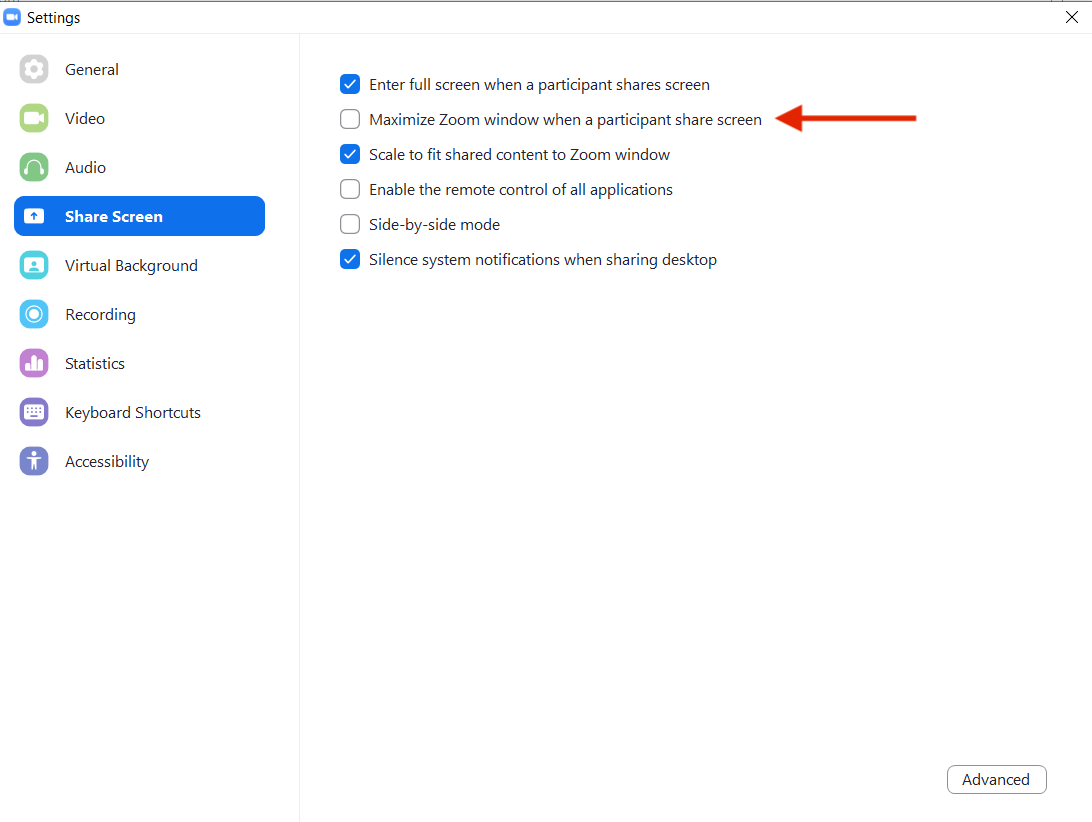
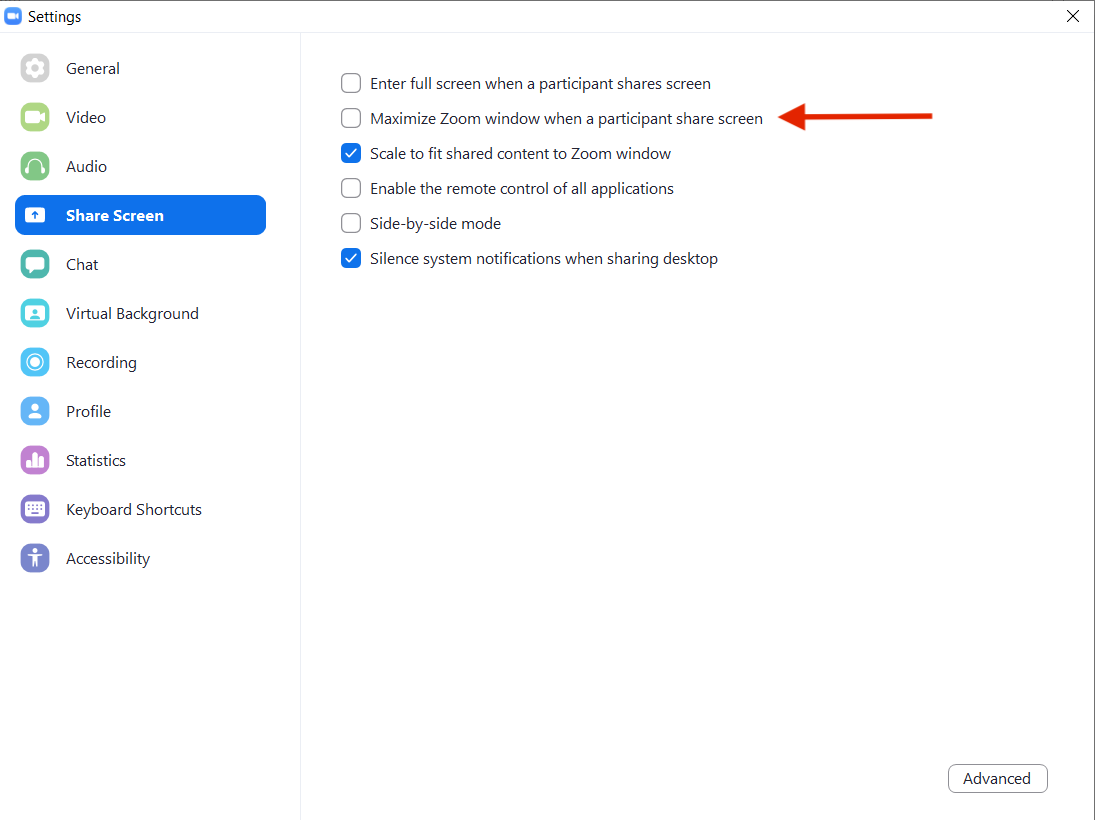
Update screenshot and make grammar wrong so we match zoom

diff --git a/virtual-setup/windows-instructions.md b/virtual-setup/windows-instructions.md
@@ -43,7 +43,7 @@ If it is not selected already, click on the **Audio** panel in the left sidebar.
 
 <img src="screenshots/windows-audio.png" alt="Microphone preferences" width=500>
 
-While in settings, go to **Share Screen** in the left sidebar and **uncheck** `Maximize Zoom window automatically when a participant shares screen`.
+While in settings, go to **Share Screen** in the left sidebar and **uncheck** `Maximize Zoom window when a participant share screen`.
 
 <img src="screenshots/windows-zoom-max.png" alt="Zoom splash screen" width=500>
 
